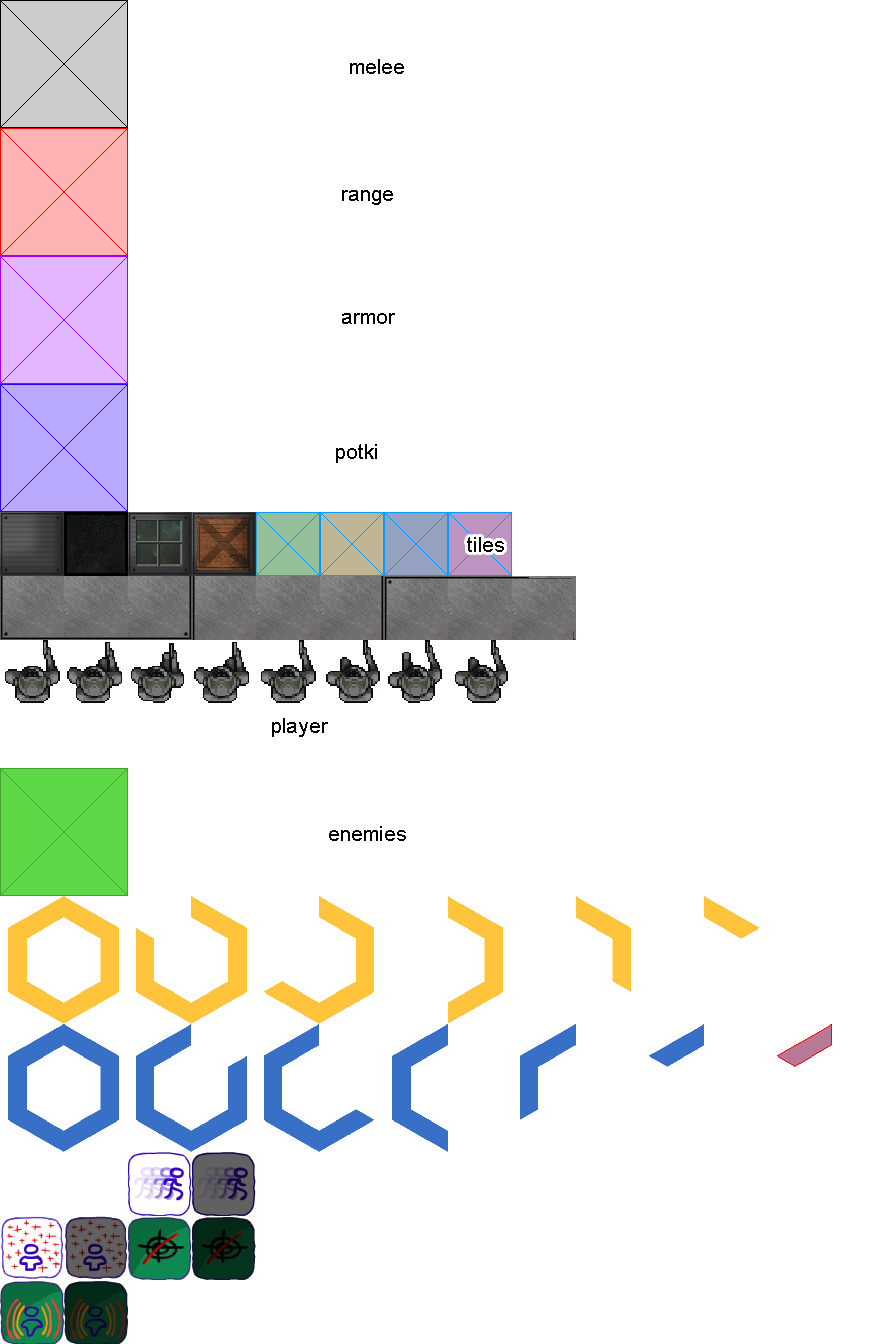
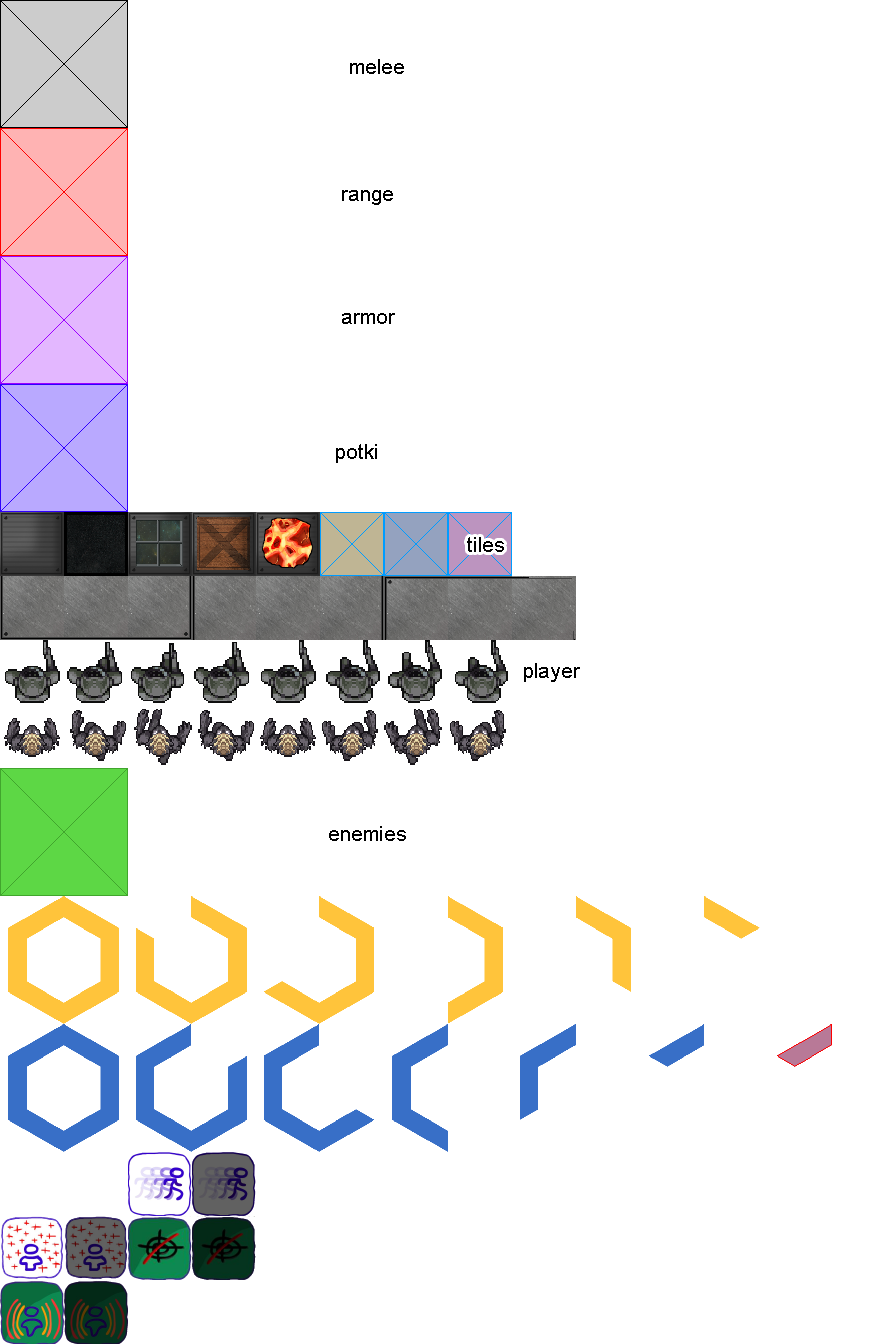
Alpha 1.03 Enemies now vary from each other

Changed region(s): [[0.0, 0.5312, 0.5625, 0.5625], [0.2812, 0.375, 0.375, 0.4375]]

diff --git a/Projekt RPG/Projekt RPG/Level.cpp b/Projekt RPG/Projekt RPG/Level.cpp
@@ -69,7 +69,7 @@ bool Level::load(string filePath)
 	file.open(filePath);
 	if (!file.is_open()) return false;
 	levelPath = filePath;
-	npcsCoords.clear();
+	npcsCoordsAndTypes.clear();
 	file >> width >> height;
 	if ((height == 0) || (width == 0))
 	{
@@ -100,12 +100,29 @@ bool Level::load(string filePath)
 			playerSpawn.x = x;
 			playerSpawn.y = y;
 		}
-		else if (name == "[ENEMY]")
+		else if (name == "[ALIEN]")
 		{
-			Tile::Coord tmp;
-			tmp.x = x;
-			tmp.y = y;
-			npcsCoords.push_back(tmp);
+			CoordAndType tmp;
+			tmp.npcCoords.x = x;
+			tmp.npcCoords.y = y;
+			tmp.enemyType = "[ALIEN]";
+			npcsCoordsAndTypes.push_back(tmp);
+		}
+		else if (name == "[GUNNER]")
+		{
+			CoordAndType tmp;
+			tmp.npcCoords.x = x;
+			tmp.npcCoords.y = y;
+			tmp.enemyType = "[GUNNER]";
+			npcsCoordsAndTypes.push_back(tmp);
+		}
+		else if (name == "[NEUTRAL]")
+		{
+			CoordAndType tmp;
+			tmp.npcCoords.x = x;
+			tmp.npcCoords.y = y;
+			tmp.enemyType = "[NEUTRAL]";
+			npcsCoordsAndTypes.push_back(tmp);
 		}
 		/* else if reszta specjalnych kafelkow*/
 	}
@@ -128,9 +145,9 @@ Tile::Coord Level::getPlayerSpawnCoords()
 	return playerSpawn;
 }
 
-vector<Tile::Coord> Level::getNpcCoords()
+vector<Level::CoordAndType> Level::getNpcCoordsAndTypes()
 {
-	return npcsCoords;
+	return npcsCoordsAndTypes;
 }
 
 vector<vector<Tile*>> Level::getMap()

diff --git a/Projekt RPG/Projekt RPG/Engine.cpp b/Projekt RPG/Projekt RPG/Engine.cpp
@@ -124,9 +124,12 @@ void Engine::setMap(RenderWindow &window, string filePath, unsigned short _id)
 	if (_id == 0) player->setPosition(level.getPlayerSpawnCoords());
 	else player->setPosition(level.getSaveCoords(_id));
 	view.setCenter(player->getPosition());
-	for (size_t i = 0; i < level.getNpcCoords().size(); ++i)
+	for (size_t i = 0; i < level.getNpcCoordsAndTypes().size(); ++i)
 	{
-		Npc* tmp = new Enemy(level.getNpcCoords()[i]);
+		Npc* tmp;
+		if (level.getNpcCoordsAndTypes()[i].enemyType == "[GUNNER]") tmp = new Gunner(level.getNpcCoordsAndTypes()[i].npcCoords);
+		else if (level.getNpcCoordsAndTypes()[i].enemyType == "[ALIEN]") tmp = new Alien(level.getNpcCoordsAndTypes()[i].npcCoords);
+		else if (level.getNpcCoordsAndTypes()[i].enemyType == "[NEUTRAL]") tmp = new Neutral(level.getNpcCoordsAndTypes()[i].npcCoords);
 		npcs.push_back(tmp);
 		Enemy* temp;
 		if (temp = dynamic_cast<Enemy*>(tmp))

diff --git a/Projekt RPG/Projekt RPG/Npc.h b/Projekt RPG/Projekt RPG/Npc.h
@@ -56,9 +56,10 @@ public:
 	Clock getAttackInterval();
 	void restartAttackInterval();
 	unsigned getExperienceGiven();
-private:
+protected:
 	float speed;
-	unsigned frame;
+	unsigned walkFrame;
+	unsigned walkFrameCount;
 	Clock anim_clock;
 	Clock time;
 	float rot;
@@ -70,11 +71,24 @@ private:
 	short parMaxHp;
 	unsigned short parStr;
 	unsigned short parAgi;
-	unsigned short parInt; /*moze okazac sie niepotrzebny*/
 	unsigned experienceGiven;
 	unsigned short attackValue;
 	unsigned short armorValue;
 	bool ranged;
 	bool alive;
 	Clock attackInterval;
+};
+
+class Gunner : public Enemy
+{
+public:
+	Gunner(Tile::Coord);
+	~Gunner();
+};
+
+class Alien : public Enemy
+{
+public:
+	Alien(Tile::Coord);
+	~Alien();
 };

diff --git a/Projekt RPG/Projekt RPG/Level.h b/Projekt RPG/Projekt RPG/Level.h
@@ -8,8 +8,14 @@ using namespace std;
 
 class Level
 {
+public:
+	struct CoordAndType
+	{
+		Tile::Coord npcCoords;
+		string enemyType;
+	};
 private:
-	vector<Tile::Coord> npcsCoords;
+	vector<CoordAndType> npcsCoordsAndTypes;
 	vector<vector<Tile*>> map;
 	unsigned short height;
 	unsigned short width;
@@ -24,7 +30,7 @@ public:
 	unsigned short getHeight();
 	unsigned short getWidth();
 	Tile::Coord getPlayerSpawnCoords();
-	vector<Tile::Coord> getNpcCoords();
+	vector<CoordAndType> getNpcCoordsAndTypes();
 	vector<vector<Tile*>> getMap();
 	void spawnLootChest(sf::Vector2f);
 	void deleteLootChest(sf::Vector2f);
